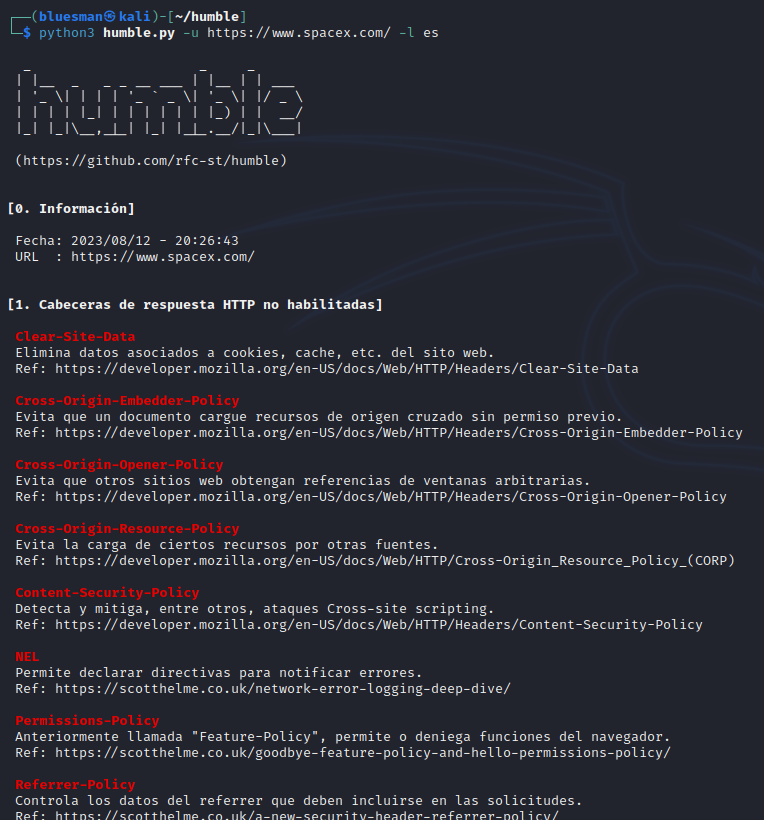
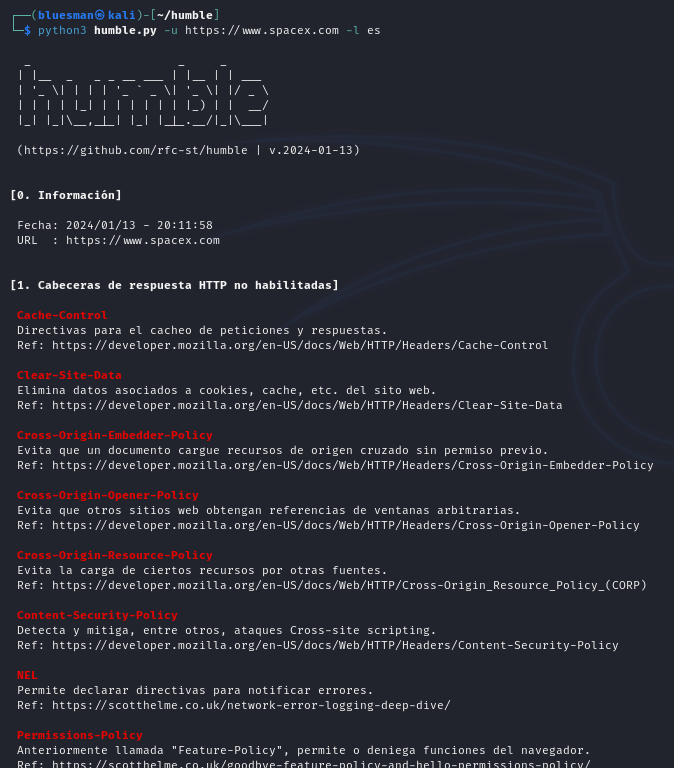
Minor: Screenshots updated and minor changes

diff --git a/humble.py b/humble.py
@@ -1106,7 +1106,7 @@ def custom_help_formatter(prog):
 init(autoreset=True)
 
 parser = ArgumentParser(formatter_class=custom_help_formatter,
-                        description=f"{PRG_N} | v.{version} | {GIT_U}")
+                        description=f"{PRG_N} |  {GIT_U} | v.{version}")
 
 parser.add_argument("-a", dest='URL_A', action="store_true", help="show \
 statistics of the performed analysis (will be global if '-u' is omitted)")
@@ -1134,7 +1134,7 @@ response headers and a detailed analysis ('-b' parameter will take priority)")
 parser.add_argument('-u', type=str, dest='URL', help="scheme, host and port to\
  analyze. E.g. https://google.com")
 parser.add_argument("-v", "--version", action="store_true", help="show the \
-version of this tool and check for updates")
+version of 'humble' and check for updates at https://github.com/rfc-st/humble")
 
 args = parser.parse_args(args=None if sys.argv[1:] else ['--help'])
 details_f = get_l10n_lines()

diff --git a/README.md b/README.md
@@ -44,7 +44,7 @@ HTTP Headers Analyzer<br />
 :heavy_check_mark: 14 [checks](#checks-missing-headers) of missing HTTP response headers.<br />
 :heavy_check_mark: 1091 [checks](#checks-fingerprint-headers) of fingerprinting through HTTP response headers.<br />
 :heavy_check_mark: 92 [checks](#checks-deprecated-headersprotocols-and-insecure-values) of deprecated HTTP response headers/protocols or with insecure/wrong values.<br />
-:heavy_check_mark: SSL/TLS checks: requires https://testssl.sh/ and Linux/Unix client.<br />
+:heavy_check_mark: SSL/TLS checks: requires the wonderful https://testssl.sh/ and Linux/Unix client.<br />
 :heavy_check_mark: Browser support references for enabled HTTP security headers.<br />
 :heavy_check_mark: Two types of analysis: brief and detailed, along with HTTP response headers.<br />
 :heavy_check_mark: Can export each analysis to CSV, HTML5, JSON, PDF 1.4 and TXT (and in the PATH of your choice).<br />
@@ -70,10 +70,10 @@ HTTP Headers Analyzer<br />
 <img src="https://github.com/rfc-st/humble/blob/master/screenshots/humble_b.PNG" alt="(Windows) - Brief analysis">
 </p>
 <br />
-.: (Linux) - Brief analysis and retrieved HTTP headers.<br />
+.: (Linux) - Brief analysis along with HTTP response headers.<br />
 <p></p>
 <p align="center">
-<img src="https://github.com/rfc-st/humble/blob/master/screenshots/humble_br.PNG" alt="(Linux) - Brief analysis and retrieved HTTP headers">
+<img src="https://github.com/rfc-st/humble/blob/master/screenshots/humble_br.PNG" alt="(Linux) - Brief analysis along with HTTP response headers">
 </p>
 <br />
 .: (Linux) - Detailed analysis in Spanish.<br />
@@ -181,7 +181,7 @@ https://github.com/rfc-st/humble/releases
 
 usage: humble.py [-h] [-a] [-b] [-df] [-e [PATH]] [-f [TERM]] [-g] [-l {es}] [-o {csv,html,json,pdf,txt}] [-op OUTPUT_PATH] [-r] [-u URL] [-v]
 
-'humble' (HTTP Headers Analyzer) | v.2024-01-06 | https://github.com/rfc-st/humble
+'humble' (HTTP Headers Analyzer) | https://github.com/rfc-st/humble | v.2024-01-13
 
 options:
   -h, --help                  show this help message and exit
@@ -196,7 +196,7 @@ options:
   -op OUTPUT_PATH             save analysis to OUTPUT_PATH (if omitted, the PATH of 'humble.py' will be used)
   -r                          show HTTP response headers and a detailed analysis ('-b' parameter will take priority)
   -u URL                      scheme, host and port to analyze. E.g. https://google.com
-  -v, --version               show the version of this tool and check for updates
+  -v, --version               show the version of 'humble' and check for updates at https://github.com/rfc-st/humble
 ```
 
 ## Advanced Usage
